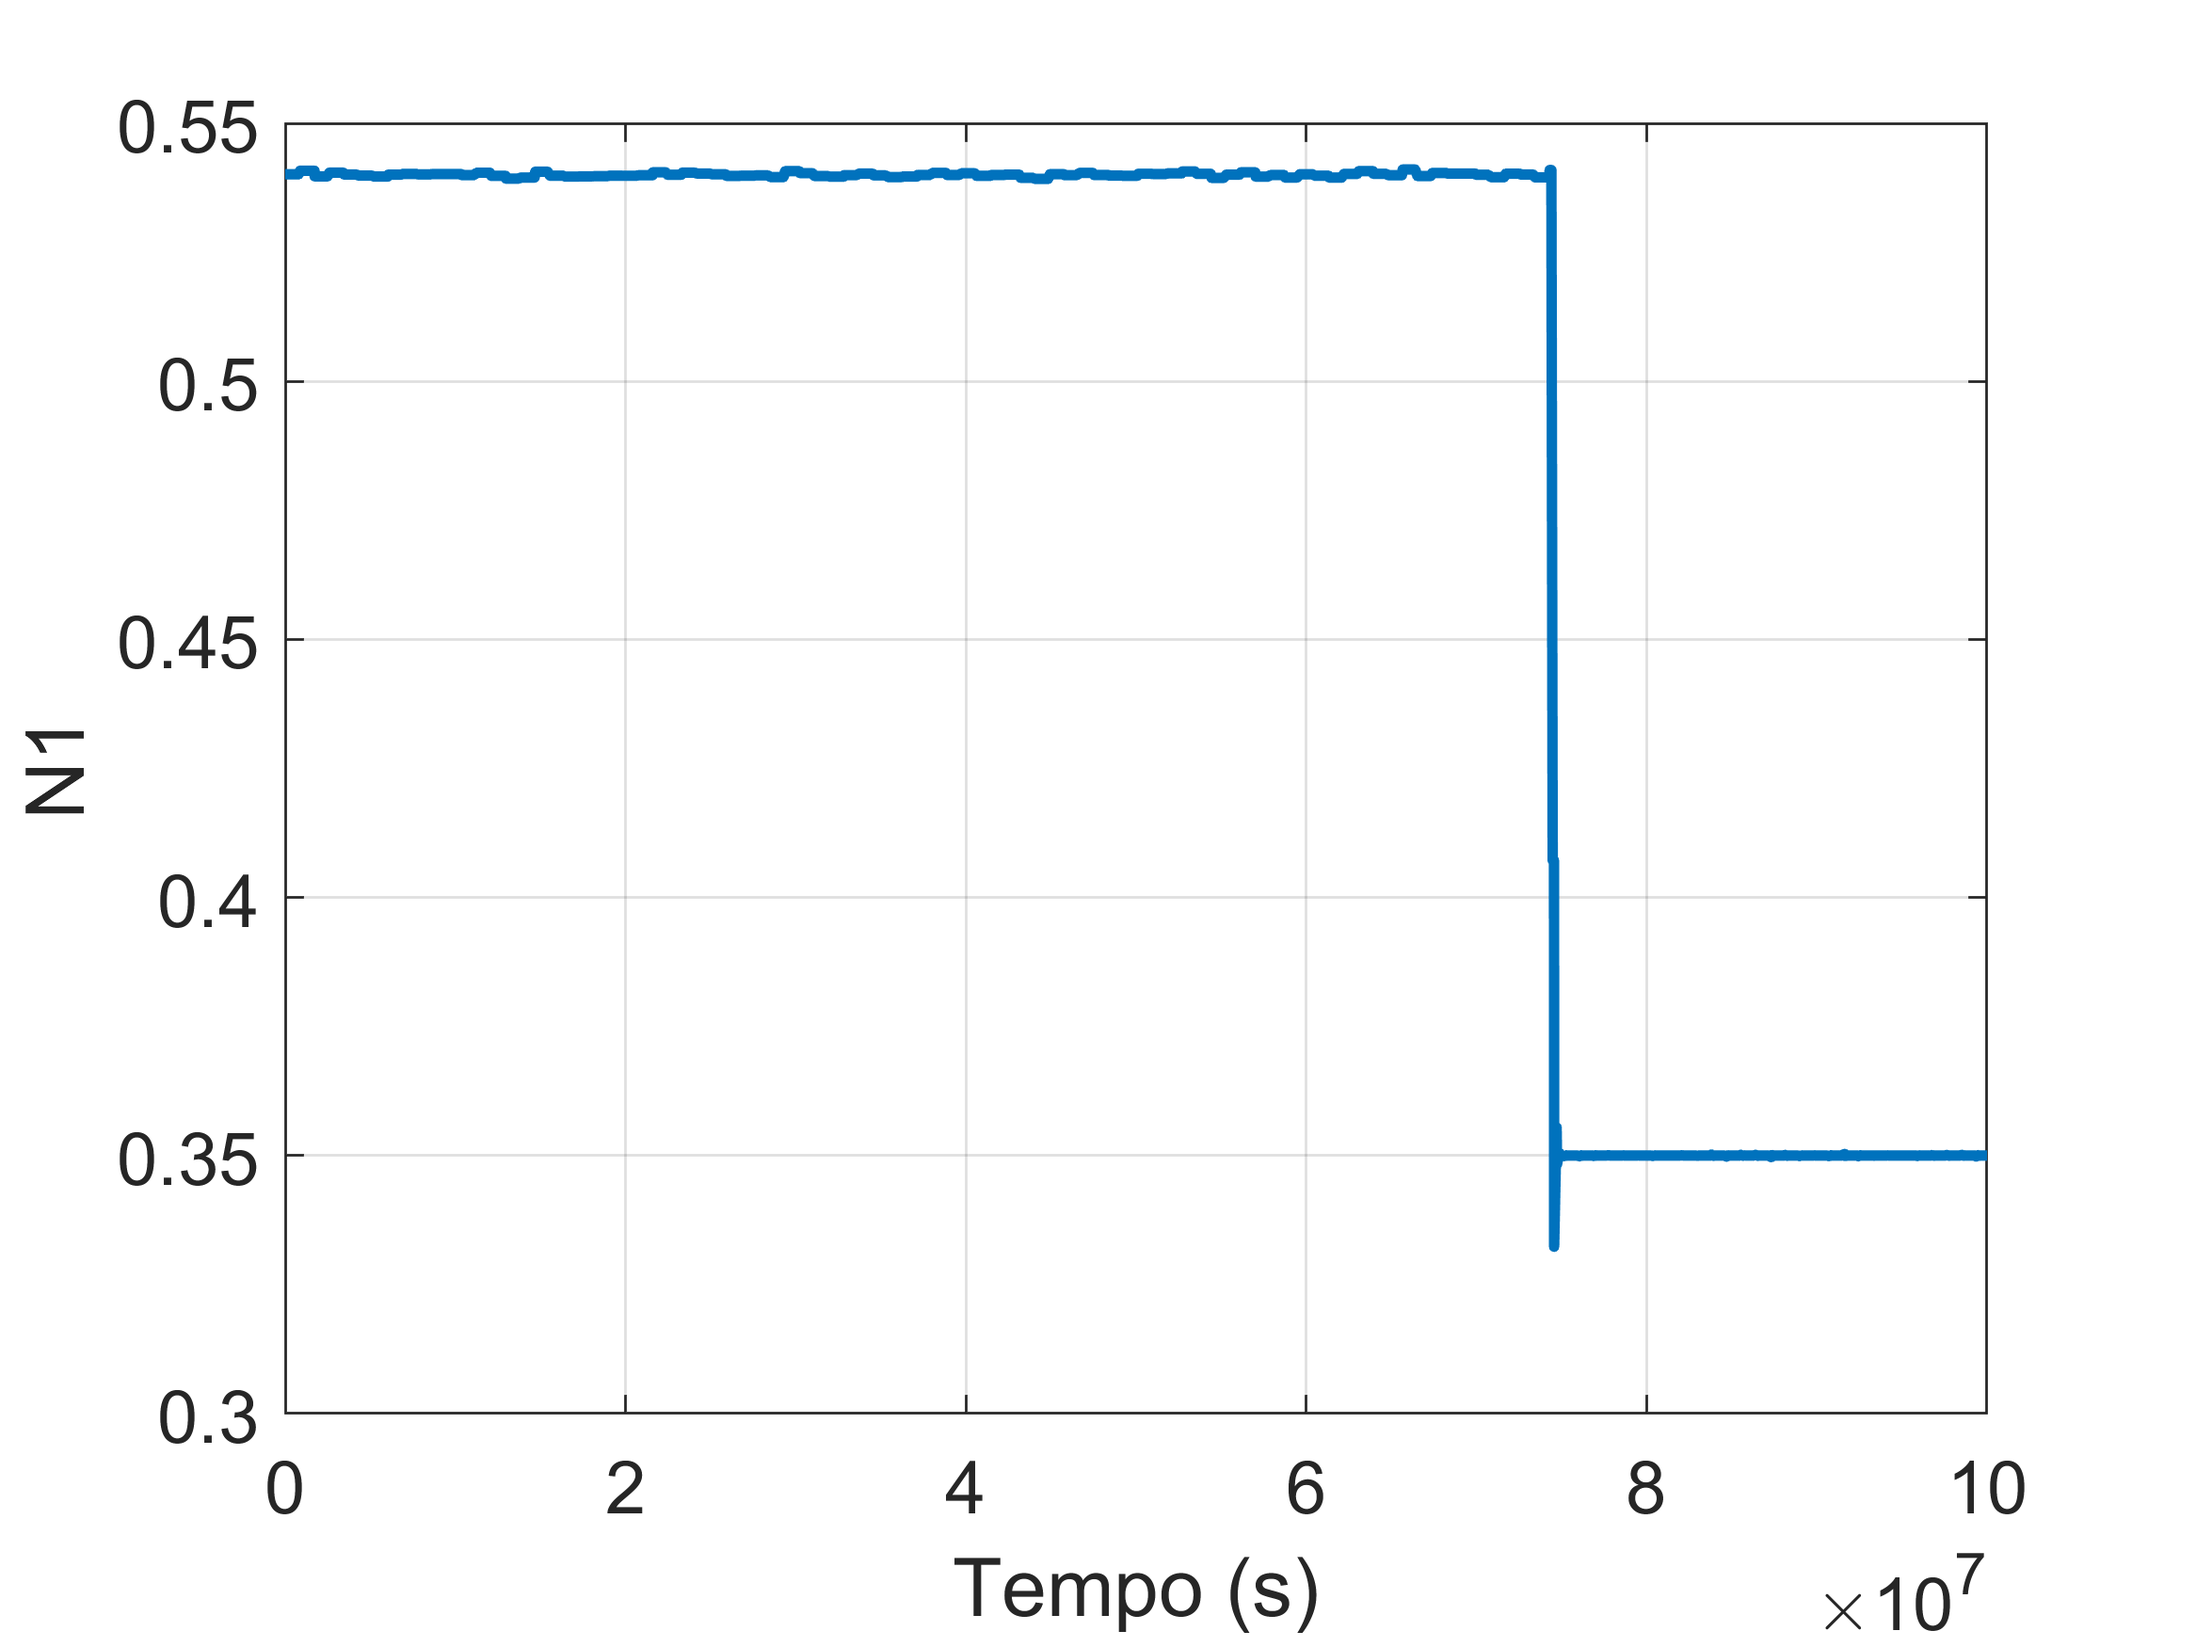
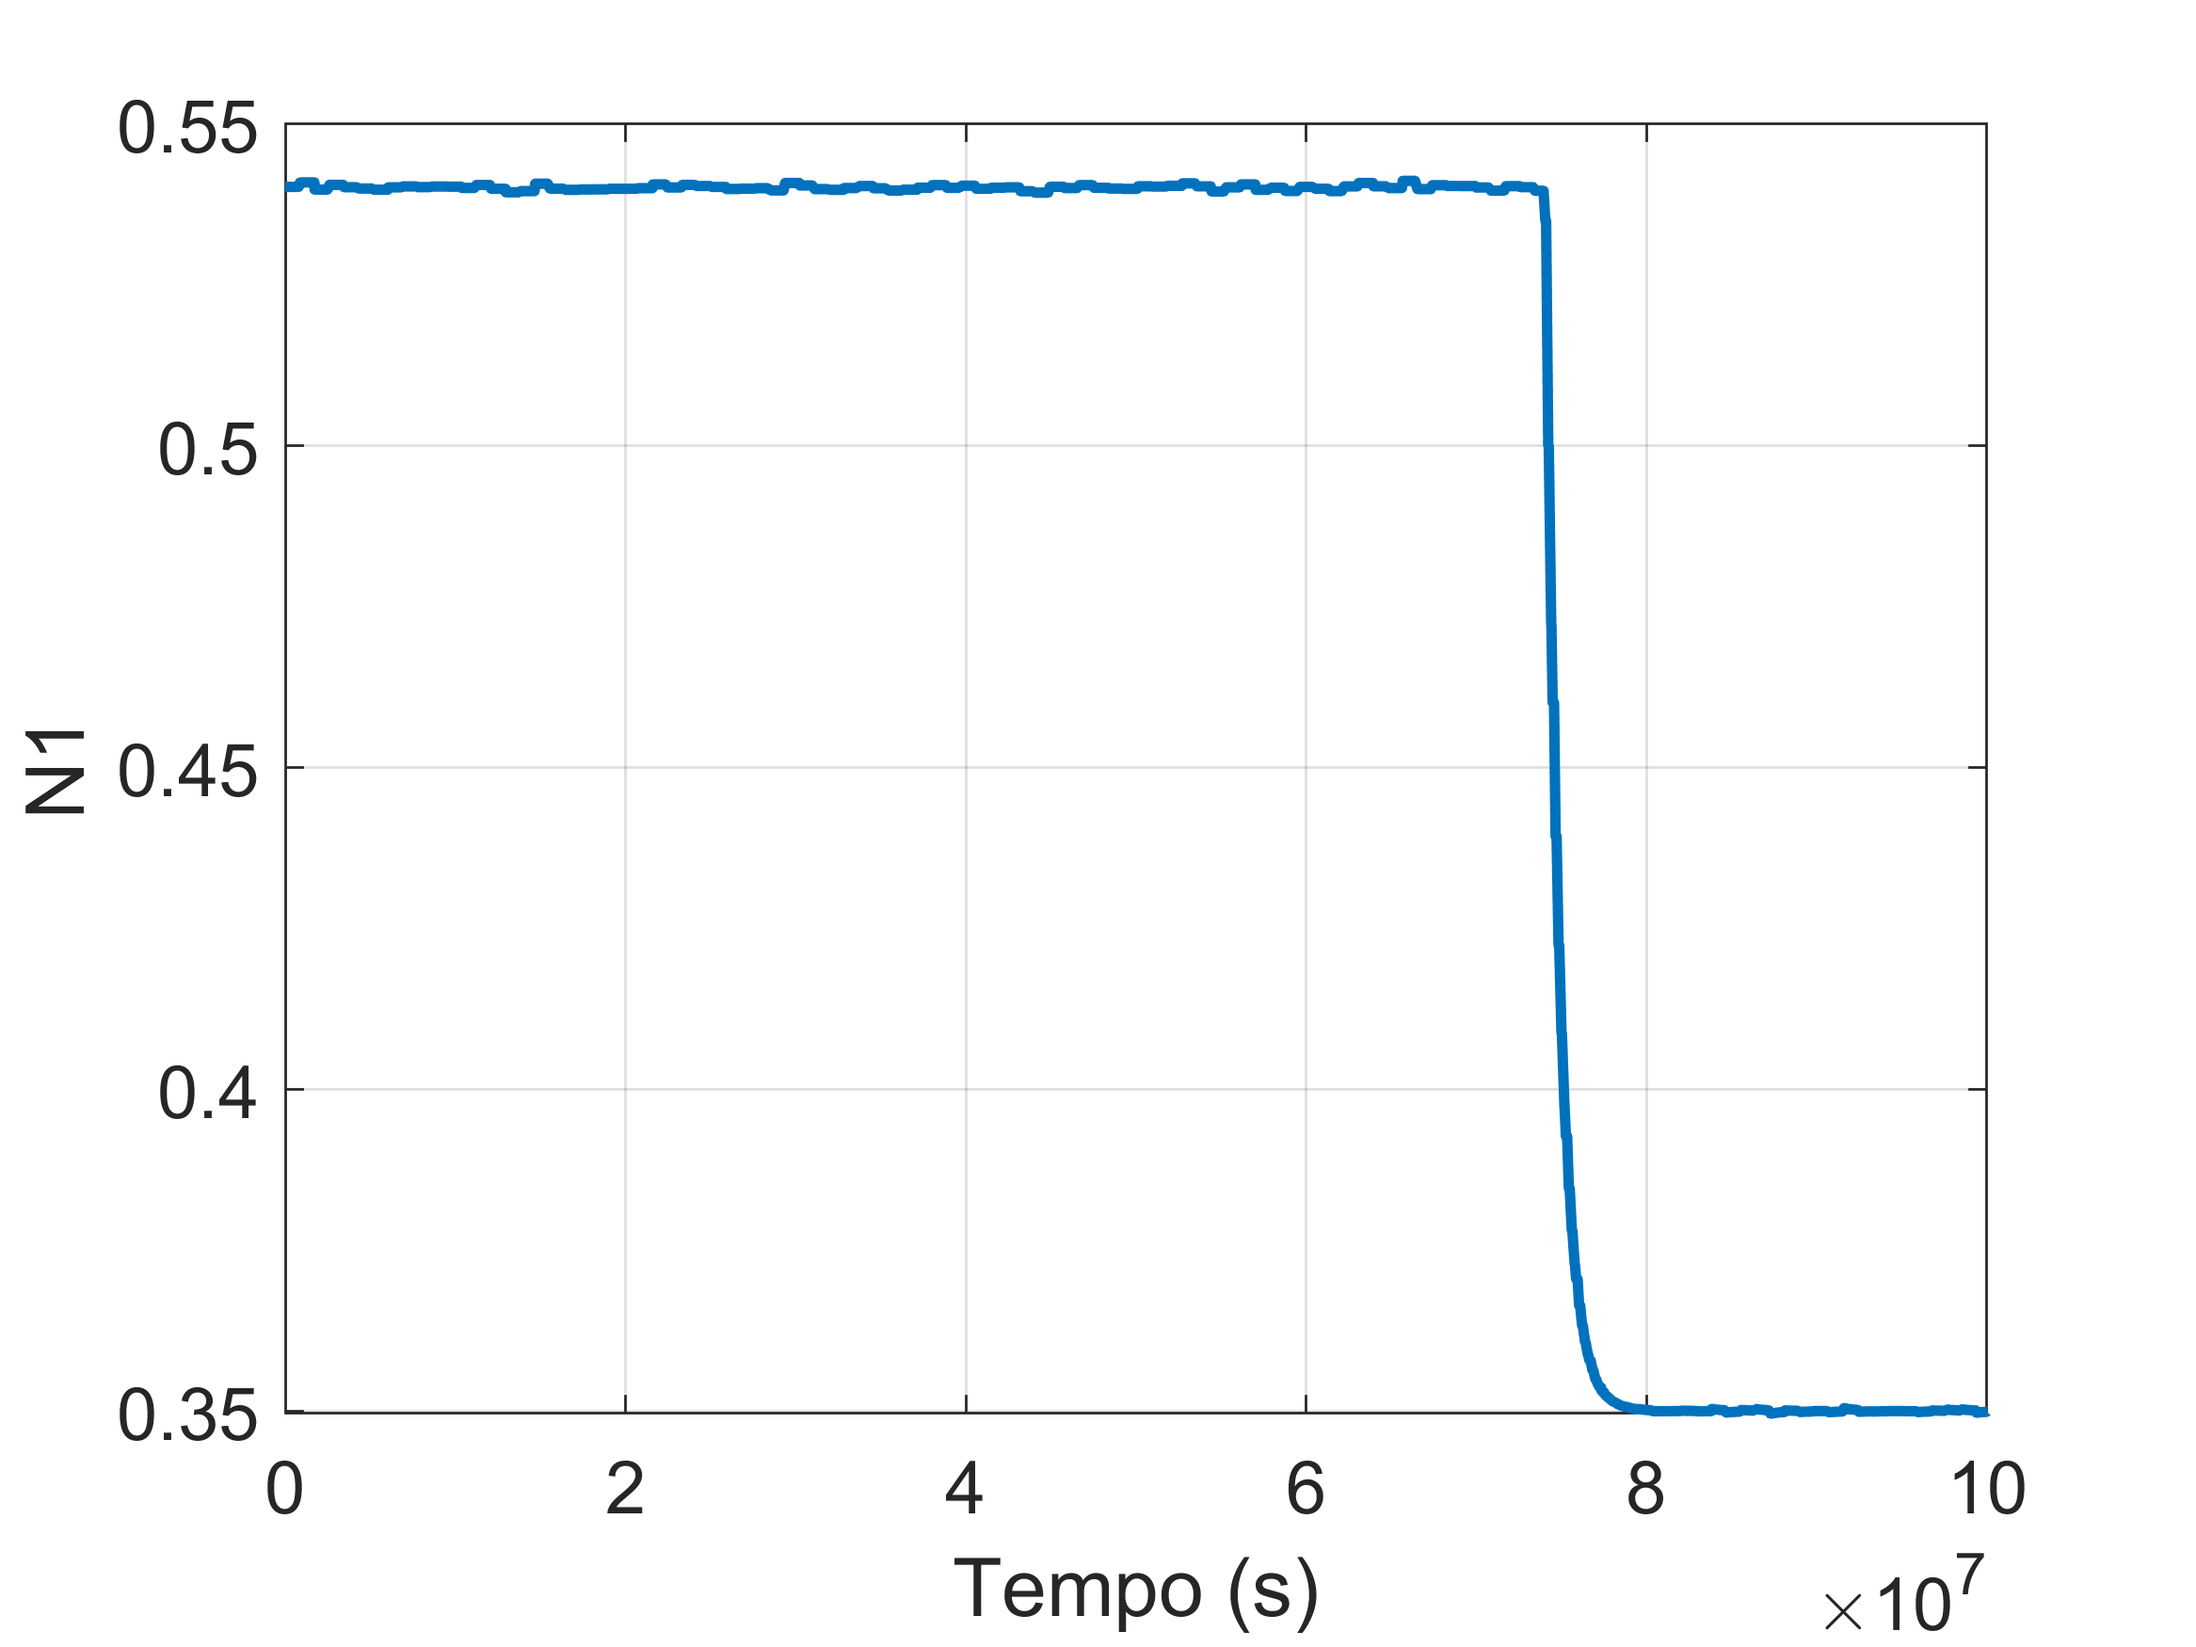
Updates

diff --git a/avaliarControladorAnalitico.m b/avaliarControladorAnalitico.m
@@ -2,15 +2,16 @@ clear
 planta = obterPlantaProjeto();
 s = tf('s');
 % PI
-Ki = 2.3289e-6;
-Kp = 1;
+
+Kp = 0.7598;
+Ki = 1.46613e-5;
 tau = 86400/2;
 C = Ki/s + Kp;
 % Lag
-alpha = 1.5;
-T = 86400*30;
-K = 0.5;
-C = K*alpha*(T*s+1)/(alpha*T*s+1);
+%alpha = 30;
+%T = 86400*100;
+%K = 1.5;
+%C = K*alpha*(T*s+1)/(alpha*T*s+1);
 
 delay = exp(-tau*s);
 %[num, den] = pade(tau, 1);
@@ -18,4 +19,8 @@ delay = exp(-tau*s);
 
 Ga = C * delay * (-planta.a);
 Gf = minreal(feedback(Ga,1));
+figure
 margin(Ga);
+figure;
+step(Gf);
+bandwidth(Gf)

diff --git a/graficosControladorAnalitico.m b/graficosControladorAnalitico.m
@@ -1,0 +1,22 @@
+clear
+figure
+
+PM = 120;
+a = 0.2320;
+Tb = 86400*30;
+wb = 2*pi./Tb;
+
+Kp = 0:1e-4:1e1;
+Ki1 = (pi/180).*(90 - PM + atand(Kp.^2)).*(sqrt((1-a.^2.*Kp.^2)/a.^2));
+Ki2 = sqrt(2.*wb.^2/a.^2 - (Kp.*wb).^2);
+
+plot(Kp, [Ki1; Ki2], 'LineWidth', 2);
+xlabel('Kp', 'FontSize', 14);
+ylabel('Ki', 'FontSize', 14);
+set(gca, 'FontSize', 14);
+grid on;
+print -dpng -r400 degrau_thetal.png % para usuarios de Word
+% print -depsc2 degrau_thetal.eps % para usuarios de LaTeX
+
+Kp = 0.7598;
+Ki = 1.46613e-5;

diff --git a/calcularCusto.m b/calcularCusto.m
@@ -1,0 +1,20 @@
+function custo = calcularCusto(x)
+s = tf('s');
+
+planta = obterPlantaProjeto();
+controlador = projetarControladorAnalitico();
+requisitos = obterRequisitos();
+
+% PI
+Kp = x(1);
+Ki = x(2);
+tau = controlador.T./2;
+C = Ki/s + Kp;
+
+delay = exp(-tau*s);
+
+Ga = C * delay * (-planta.a);
+Gf = minreal(feedback(Ga,1));
+[Gm, Pm, Wcg, Wcp] = margin(Ga);
+wb = bandwidth(Gf);
+custo = (requisitos.PM-Pm)^2 + (requisitos.wb - wb)^2;

diff --git a/obterRequisitos.m b/obterRequisitos.m
@@ -1,13 +1,7 @@
 function requisitos = obterRequisitos()
 % requistos = obterRequisitos() obtem os requisitos
 
-requisitos.wb = 2 * pi * 10;
-requisitos.posicao.GM = 11;
-requisitos.posicao.PM = 60;
-requisitos.posicao.fs = 1000;
-
-%requisitos.wb = 1.286 * 10^(-7);
-requisitos.wb = 1.286 * 10^(-1);
-requisitos.xi_2ordem = 0.6;
-requisitos.Ts = 86400;
+requisitos.PM = 120;
+Tb = 86400*30;
+requisitos.wb = 2*pi./Tb;
 end

diff --git a/projetarControladorAnalitico.m b/projetarControladorAnalitico.m
@@ -14,8 +14,8 @@ function controlador = projetarControladorAnalitico(requisitos, planta)
 % controlador.Tl: parametro Tl da compensacao lead.
 % controlador.T: periodo de amostragem do controlador de corrente.
 
-controlador.Kp = 1;%controlador.Kp;
-controlador.Ki = 2.33e-4;%controlador.Ki;
+controlador.Kp = 0.7598;
+controlador.Ki = 1.46613e-5;
 controlador.T = 86400;
 
 end
